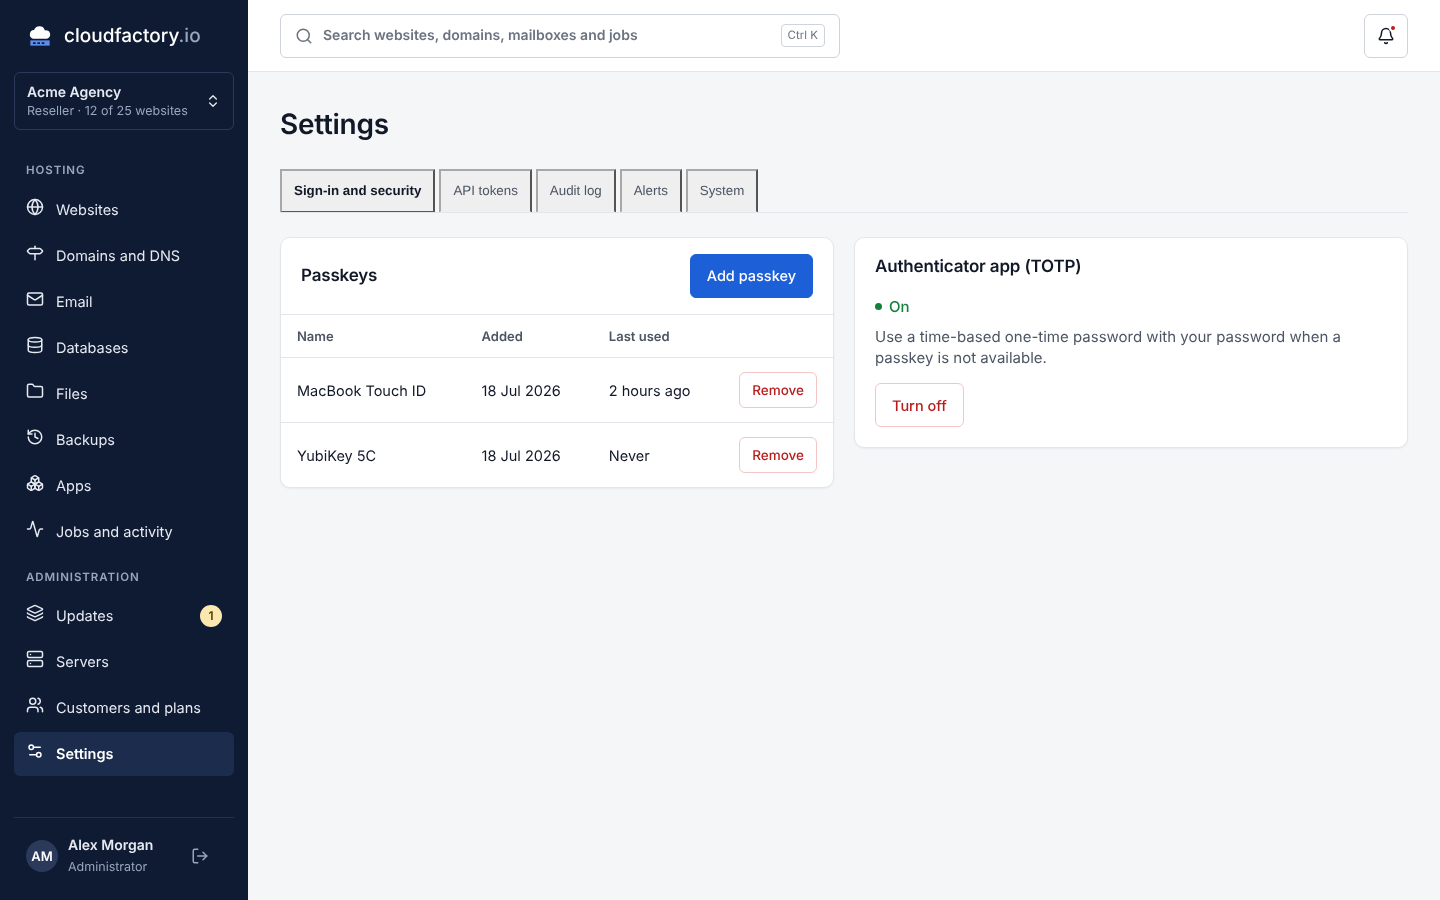
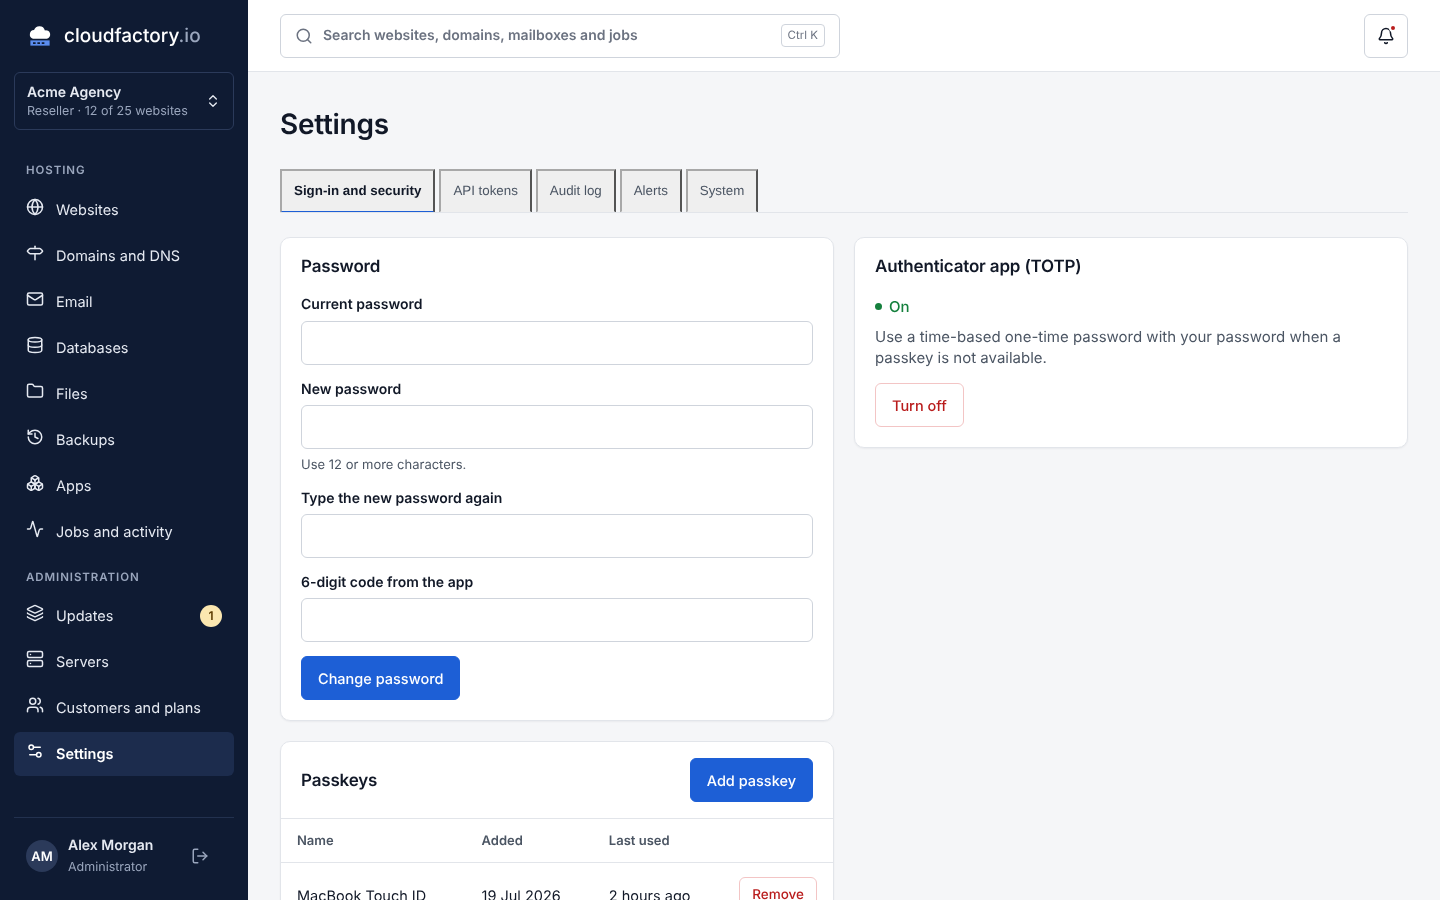
Add password change and TOTP setup to the web panel
- R-01: Settings, Sign-in and security, is in live mode too. Users change
  the password and set up or turn off an authenticator app.
- R-08: the sign-in page shows the one error for a wrong password or code.
- R-14: the Add server command uses the installation script on GitHub
  Releases.
- Screenshots: docs/screenshots/live/15 to 19 and 22-settings.

Claude-Session: https://claude.ai/code/session_016DWqw471dWfS7nz64wdcdV

diff --git a/web/src/pages/SettingsPage.tsx b/web/src/pages/SettingsPage.tsx
@@ -1,6 +1,6 @@
 import { useState } from "react";
 import { useAction, useStore } from "../api/hooks";
-import { addAlertChannel, addPasskey, createToken, removeAlertChannel, removePasskey, revokeToken, setSystem, setTotp, testAlertChannel } from "../api/store";
+import { addAlertChannel, addPasskey, changePassword, createToken, removeAlertChannel, removePasskey, revokeToken, setSystem, setTotp, startTotpSetup, testAlertChannel } from "../api/store";
 import { features, LIVE } from "../api/mode";
 import type { AlertChannel, TokenScope } from "../api/types";
 import { Topbar } from "../components/Layout";
@@ -16,10 +16,10 @@ const EVENTS = ["Server health", "Failed update", "Failed deploy", "Failed backu
 
 export function SettingsPage() {
   const state = useStore();
-  const [tab, setTab] = useState(features.security ? "security" : "tokens");
+  const [tab, setTab] = useState("security");
   const isAdmin = state.session.user.role === "administrator";
   const tabs = [
-    ...(features.security ? [{ id: "security", label: "Sign-in and security" }] : []),
+    { id: "security", label: "Sign-in and security" },
     { id: "tokens", label: "API tokens" },
     { id: "audit", label: "Audit log" },
     ...(features.alerts ? [{ id: "alerts", label: "Alerts" }] : []),
@@ -41,17 +41,43 @@ export function SettingsPage() {
   );
 }
 
-/** FR-103: passkeys and TOTP. */
+/** FR-103 and R-01: the password, passkeys and TOTP. */
 function Security() {
   const state = useStore();
   const [adding, setAdding] = useState(false);
   const [name, setName] = useState("");
-  const [totpOpen, setTotpOpen] = useState(false);
+  const [totpMode, setTotpMode] = useState<"on" | "off" | null>(null);
+  const [setup, setSetup] = useState<{ secret: string; uri: string } | null>(null);
   const [code, setCode] = useState("");
+  const [password, setPassword] = useState("");
   const remove = useAction(removePasskey);
   const totp = useAction(setTotp);
+  const start = useAction(startTotpSetup);
+  const closeTotp = () => { setTotpMode(null); setSetup(null); setCode(""); setPassword(""); totp.clear(); };
+  const openSetup = async () => {
+    const r = await start.run();
+    if (r.ok) { setSetup(r.value); setTotpMode("on"); }
+  };
   return (
     <div className="grid-2">
+      <PasswordCard />
+      <Card title="Authenticator app (TOTP)">
+        <div className="card-body">
+          <FormError error={start.error ?? (totpMode ? null : totp.error)} />
+          <p>{state.totpEnabled ? <Status tone="success">On</Status> : <Status tone="warning">Off</Status>}</p>
+          <p className="muted" style={{ marginTop: 8 }}>
+            {features.passkeys
+              ? "Use a time-based one-time password with your password when a passkey is not available."
+              : "Ask for a code from an app on your phone each time you sign in. Then a stolen password alone does not give access to your account."}
+          </p>
+          <div className="btn-group" style={{ marginTop: 14 }}>
+            {state.totpEnabled
+              ? <button type="button" className="btn btn-danger" onClick={() => setTotpMode("off")}>Turn off</button>
+              : <button type="button" className="btn btn-primary" onClick={() => void openSetup()}>Set up</button>}
+          </div>
+        </div>
+      </Card>
+      {features.passkeys && (
       <Card title="Passkeys" actions={<button type="button" className="btn btn-primary" onClick={() => setAdding(true)}>Add passkey</button>}>
         <div className="card-body" style={{ paddingBottom: 0 }}><FormError error={remove.error} /></div>
         <div className="table-wrap">
@@ -72,35 +98,61 @@ function Security() {
           </table>
         </div>
       </Card>
-      <Card title="Authenticator app (TOTP)">
-        <div className="card-body">
-          <FormError error={totp.error} />
-          <p>{state.totpEnabled ? <Status tone="success">On</Status> : <Status tone="neutral">Off</Status>}</p>
-          <p className="muted" style={{ marginTop: 8 }}>Use a time-based one-time password with your password when a passkey is not available.</p>
-          <div className="btn-group" style={{ marginTop: 14 }}>
-            {state.totpEnabled
-              ? <ConfirmButton className="btn btn-danger" title="Turn off TOTP?" confirm="Turn off" message={<p>You can then sign in with a passkey only.</p>} onConfirm={() => void totp.run(false)}>Turn off</ConfirmButton>
-              : <button type="button" className="btn btn-primary" onClick={() => setTotpOpen(true)}>Set up</button>}
-          </div>
-        </div>
-      </Card>
+      )}
       {adding && (
         <Modal title="Add passkey" onClose={() => setAdding(false)} footer={<><button type="button" className="btn" onClick={() => setAdding(false)}>Cancel</button><button type="button" className="btn btn-primary" onClick={() => { addPasskey(name); setAdding(false); setName(""); }}>Continue</button></>}>
           <p>Your browser asks you to confirm with Touch ID, Windows Hello or a security key.</p>
           <Field label="Name for this passkey">{(p) => <input {...p} className="input" value={name} onChange={(e) => setName(e.target.value)} placeholder="Work laptop" />}</Field>
         </Modal>
       )}
-      {totpOpen && (
-        <Modal title="Set up an authenticator app" onClose={() => setTotpOpen(false)} footer={<><button type="button" className="btn" onClick={() => setTotpOpen(false)}>Cancel</button><button type="submit" form="totp" className="btn btn-primary">Turn on</button></>}>
-          <form id="totp" noValidate onSubmit={async (e) => { e.preventDefault(); if ((await totp.run(true, code)).ok) setTotpOpen(false); }}>
+      {totpMode && (
+        <Modal
+          title={totpMode === "on" ? "Set up an authenticator app" : "Turn off the authenticator app"}
+          onClose={closeTotp}
+          footer={<><button type="button" className="btn" onClick={closeTotp}>Cancel</button><button type="submit" form="totp" className={totpMode === "on" ? "btn btn-primary" : "btn btn-danger"}>{totpMode === "on" ? "Turn on" : "Turn off"}</button></>}
+        >
+          <form id="totp" noValidate onSubmit={async (e) => { e.preventDefault(); if ((await totp.run(totpMode === "on", code, password)).ok) closeTotp(); }}>
             <FormError error={totp.error} />
-            <p>Scan the code with your app, or type this key:</p>
-            <CopyField value="JBSW Y3DP EHPK 3PXP" label="TOTP key" />
-            <Field label="6-digit code" error={totp.error?.fields.code}>{(p) => <input {...p} className="input" inputMode="numeric" autoComplete="one-time-code" maxLength={6} value={code} onChange={(e) => setCode(e.target.value)} />}</Field>
+            {totpMode === "on" && setup && <>
+              <p>Add this key to your authenticator app, for example 1Password, Google Authenticator or Microsoft Authenticator. On a phone, you can <a href={setup.uri}>open the key in the app</a>.</p>
+              <CopyField value={setup.secret.replace(/(.{4})/g, "$1 ").trim()} label="TOTP key" />
+              <p className="muted" style={{ marginTop: 8, marginBottom: 12 }}>The key is valid for 10 minutes. Keep a copy in a safe place, in case you lose your phone.</p>
+            </>}
+            {totpMode === "off" && <p style={{ marginBottom: 12 }}>You then sign in with your password only. Type your password and a code from the app.</p>}
+            <Field label="Password" error={totp.error?.fields.password}>{(p) => <input {...p} className="input" type="password" autoComplete="current-password" value={password} onChange={(e) => setPassword(e.target.value)} />}</Field>
+            <Field label="6-digit code from the app" error={totp.error?.fields.code}>{(p) => <input {...p} className="input" inputMode="numeric" autoComplete="one-time-code" maxLength={6} value={code} onChange={(e) => setCode(e.target.value)} />}</Field>
           </form>
         </Modal>
       )}
     </div>
+  );
+}
+
+/** R-01: change the password with the current password and, when TOTP is on, a code. */
+function PasswordCard() {
+  const state = useStore();
+  const [current, setCurrent] = useState("");
+  const [next, setNext] = useState("");
+  const [confirm, setConfirm] = useState("");
+  const [code, setCode] = useState("");
+  const [done, setDone] = useState(false);
+  const change = useAction(changePassword);
+  return (
+    <Card title="Password">
+      <form className="card-body" noValidate onSubmit={async (e) => {
+        e.preventDefault();
+        setDone(false);
+        if ((await change.run(current, next, confirm, code)).ok) { setCurrent(""); setNext(""); setConfirm(""); setCode(""); setDone(true); }
+      }}>
+        <FormError error={change.error} />
+        {done && <p role="status" style={{ marginBottom: 12 }}><Status tone="success">Changed</Status> Your other sessions are signed out.</p>}
+        <Field label="Current password" error={change.error?.fields.currentPassword}>{(p) => <input {...p} className="input" type="password" autoComplete="current-password" value={current} onChange={(e) => setCurrent(e.target.value)} />}</Field>
+        <Field label="New password" hint="Use 12 or more characters." error={change.error?.fields.password}>{(p) => <input {...p} className="input" type="password" autoComplete="new-password" value={next} onChange={(e) => setNext(e.target.value)} />}</Field>
+        <Field label="Type the new password again" error={change.error?.fields.password_confirmation}>{(p) => <input {...p} className="input" type="password" autoComplete="new-password" value={confirm} onChange={(e) => setConfirm(e.target.value)} />}</Field>
+        {state.totpEnabled && <Field label="6-digit code from the app" error={change.error?.fields.totp}>{(p) => <input {...p} className="input" inputMode="numeric" autoComplete="one-time-code" maxLength={6} value={code} onChange={(e) => setCode(e.target.value)} />}</Field>}
+        <div className="btn-group" style={{ marginTop: 14 }}><button type="submit" className="btn btn-primary">Change password</button></div>
+      </form>
+    </Card>
   );
 }
 

diff --git a/web/src/api/store.ts b/web/src/api/store.ts
@@ -1632,14 +1632,48 @@ export function removePasskey(passkeyId: string) {
   });
 }
 
-export function setTotp(enabled: boolean, code?: string) {
-  if (LIVE) notInRelease();
-  if (enabled && !/^\d{6}$/.test(code ?? "")) throw new ApiError("Type the 6-digit code.", { code: "Type the 6-digit code from the app." });
+/** R-01: the key for a new authenticator app. TOTP is on only after setTotp(true, …). */
+export function startTotpSetup(): Promise<{ secret: string; uri: string }> | { secret: string; uri: string } {
+  if (LIVE) return call(() => live.request<{ secret: string; uri: string }>("POST", "/me/totp/setup"));
+  const secret = "JBSWY3DPEHPK3PXP";
+  return { secret, uri: `otpauth://totp/Cloudfactory:${encodeURIComponent(state.session.user.email)}?secret=${secret}&issuer=Cloudfactory` };
+}
+
+/** R-01: turns TOTP on or off. Each change needs the password and a code from the app. */
+export function setTotp(enabled: boolean, code: string, password: string) {
+  const errors: Record<string, string> = {};
+  if (!password) errors.password = "Type your password.";
+  if (!/^\d{6}$/.test(code.trim())) errors.code = "Type the 6-digit code from the app.";
+  if (Object.keys(errors).length) throw new ApiError(Object.values(errors)[0], errors);
+  if (LIVE) {
+    return call(async () => {
+      await live.request("POST", enabled ? "/me/totp/enable" : "/me/totp/disable", { password, code: code.trim() });
+      await refresh();
+    });
+  }
   if (!enabled && state.passkeys.length === 0) throw new ApiError("Add a passkey before you remove TOTP.");
   update((d) => {
     d.totpEnabled = enabled;
     audit(d, enabled ? "Set up TOTP" : "Removed TOTP", d.session.user.email);
   });
+}
+
+/** R-01: changes the password. The panel then signs out the other sessions of the user. */
+export function changePassword(current: string, next: string, confirm: string, totp = "") {
+  const errors: Record<string, string> = {};
+  if (!current) errors.currentPassword = "Type your current password.";
+  if (next.length < 12) errors.password = "Use 12 or more characters.";
+  else if (next === current) errors.password = "Use a password that is different from the current password.";
+  if (next !== confirm) errors.password_confirmation = "The passwords are not the same.";
+  if (state.totpEnabled && !/^\d{6}$/.test(totp.trim())) errors.totp = "Type the 6-digit code from the app.";
+  if (Object.keys(errors).length) throw new ApiError(Object.values(errors)[0], errors);
+  if (LIVE) {
+    return call(async () => {
+      await live.request("PUT", "/me/password", { currentPassword: current, password: next, password_confirmation: confirm, totp: totp.trim() || undefined });
+      await refresh();
+    });
+  }
+  update((d) => audit(d, "Changed password", d.session.user.email));
 }
 
 export function addAlertChannel(kind: AlertChannel["kind"], target: string, events: string[]) {

diff --git a/web/src/api/store.test.ts b/web/src/api/store.test.ts
@@ -1,5 +1,5 @@
 import { beforeEach, describe, expect, it } from "vitest";
-import { ApiError, addDomain, createDatabase, createDatabaseUser, createToken, getState, resetState, setDatabaseUser, timing, verifyDomain } from "./store";
+import { ApiError, addDomain, changePassword, createDatabase, createDatabaseUser, createToken, getState, resetState, setDatabaseUser, setTotp, timing, verifyDomain } from "./store";
 
 beforeEach(() => {
   resetState();
@@ -57,5 +57,20 @@ describe("tokens (CF-02)", () => {
     expect(() => createToken("ci", ["websites:read"], 30, "")).toThrow(ApiError);
     expect(() => createToken("ci", ["websites:read"], 30, "secret", "")).toThrow(ApiError);
     expect(createToken("ci", ["websites:read"], 30, "secret", "123456")).toMatchObject({ token: { name: "ci" } });
+  });
+});
+
+describe("sign-in settings (R-01)", () => {
+  it("checks a new password before it sends it", () => {
+    const fields = (fn: () => unknown) => { try { fn(); } catch (e) { return (e as ApiError).fields; } return {}; };
+    expect(fields(() => changePassword("", "short", "other", ""))).toMatchObject({ currentPassword: expect.any(String), password: expect.any(String), password_confirmation: expect.any(String) });
+    expect(fields(() => changePassword("old-password-1", "old-password-1", "old-password-1", "123456"))).toMatchObject({ password: expect.any(String) });
+    expect(() => changePassword("old-password-1", "a-new-long-password", "a-new-long-password", "123456")).not.toThrow();
+    expect(getState().audit[0]).toMatchObject({ action: "Changed password" });
+  });
+
+  it("needs the password and a code to change TOTP", () => {
+    expect(() => setTotp(false, "123456", "")).toThrow(ApiError);
+    expect(() => setTotp(false, "12", "secret")).toThrow(ApiError);
   });
 });

diff --git a/web/src/pages/ServersPage.tsx b/web/src/pages/ServersPage.tsx
@@ -38,6 +38,9 @@ export function ServersTable() {
   );
 }
 
+/** R-14: the signed installation script from GitHub Releases, as in the README. */
+const INSTALL_URL = "https://github.com/itbm/cloudfactory/releases/latest/download/install.sh";
+
 const ROLES: ServerRole[] = ["web", "database", "email", "dns", "backup"];
 
 function AddServerDialog({ onClose }: { onClose: () => void }) {
@@ -51,8 +54,8 @@ function AddServerDialog({ onClose }: { onClose: () => void }) {
   useEffect(() => { if (LIVE) void newJoinToken(); }, []);
   const name_ = name.trim().toLowerCase();
   const cmd = LIVE
-    ? `curl -fsSL https://get.cloudfactory.io | sh -s -- --join ${state.joinToken || "…"} --panel https://${window.location.host}${name_ ? ` --name ${name_}` : ""} --roles ${roles.join(",") || "web"}`
-    : `curl -fsSL https://get.cloudfactory.io | sh -s -- --join ${state.joinToken}`;
+    ? `curl -fsSL ${INSTALL_URL} | sh -s -- --join ${state.joinToken || "…"} --panel https://${window.location.host}${name_ ? ` --name ${name_}` : ""} --roles ${roles.join(",") || "web"}`
+    : `curl -fsSL ${INSTALL_URL} | sh -s -- --join ${state.joinToken}`;
   return (
     <Modal
       title="Add server"

diff --git a/web/src/pages/LoginPage.tsx b/web/src/pages/LoginPage.tsx
@@ -47,7 +47,7 @@ export function LoginPage() {
             e.preventDefault();
             const r = await pw.run();
             if (r.ok) go();
-            // A wrong email or password: show the first step again.
+            // R-08: one error for a wrong email, password or code. Show the first step again.
             else if (r.error.fields.email || r.error.fields.password) setStep("start");
           }}>
             <Field label="6-digit code" hint={features.passkeys ? "Open your authenticator app." : "Open your authenticator app. Leave it empty if your account has no TOTP yet."} error={pw.error?.fields.totp}>

diff --git a/web/src/api/mode.ts b/web/src/api/mode.ts
@@ -23,7 +23,6 @@ export const features = {
   access: !LIVE,
   logs: !LIVE,
   passkeys: !LIVE,
-  security: !LIVE,
   system: !LIVE,
   alerts: !LIVE,
   branding: !LIVE,

diff --git a/docs/screenshots/live/README.md b/docs/screenshots/live/README.md
@@ -86,3 +86,37 @@ The new website of the owner.
 Updates, after "Check now". The local panel has no release public key, so the check gives an error.
 
 ![14-updates](14-updates.png)
+
+## 15-sign-in-one-error
+
+R-08: a wrong password and a wrong code give the same error, so the answer does not show that
+a password is correct.
+
+![15-sign-in-one-error](15-sign-in-one-error.png)
+
+## 16-sign-in-settings
+
+R-01: Settings, Sign-in and security. The user changes the password and sets up an
+authenticator app.
+
+![16-sign-in-settings](16-sign-in-settings.png)
+
+## 17-set-up-totp
+
+R-01: the panel makes a new TOTP key. TOTP is on only after the user gives the password and a
+code from the app.
+
+![17-set-up-totp](17-set-up-totp.png)
+
+## 18-password-changed
+
+R-01: TOTP is on, so a password change also needs a code. The panel signs out the other
+sessions.
+
+![18-password-changed](18-password-changed.png)
+
+## 19-add-server-github
+
+R-14: the "Add server" command downloads the signed installation script from GitHub Releases.
+
+![19-add-server-github](19-add-server-github.png)
